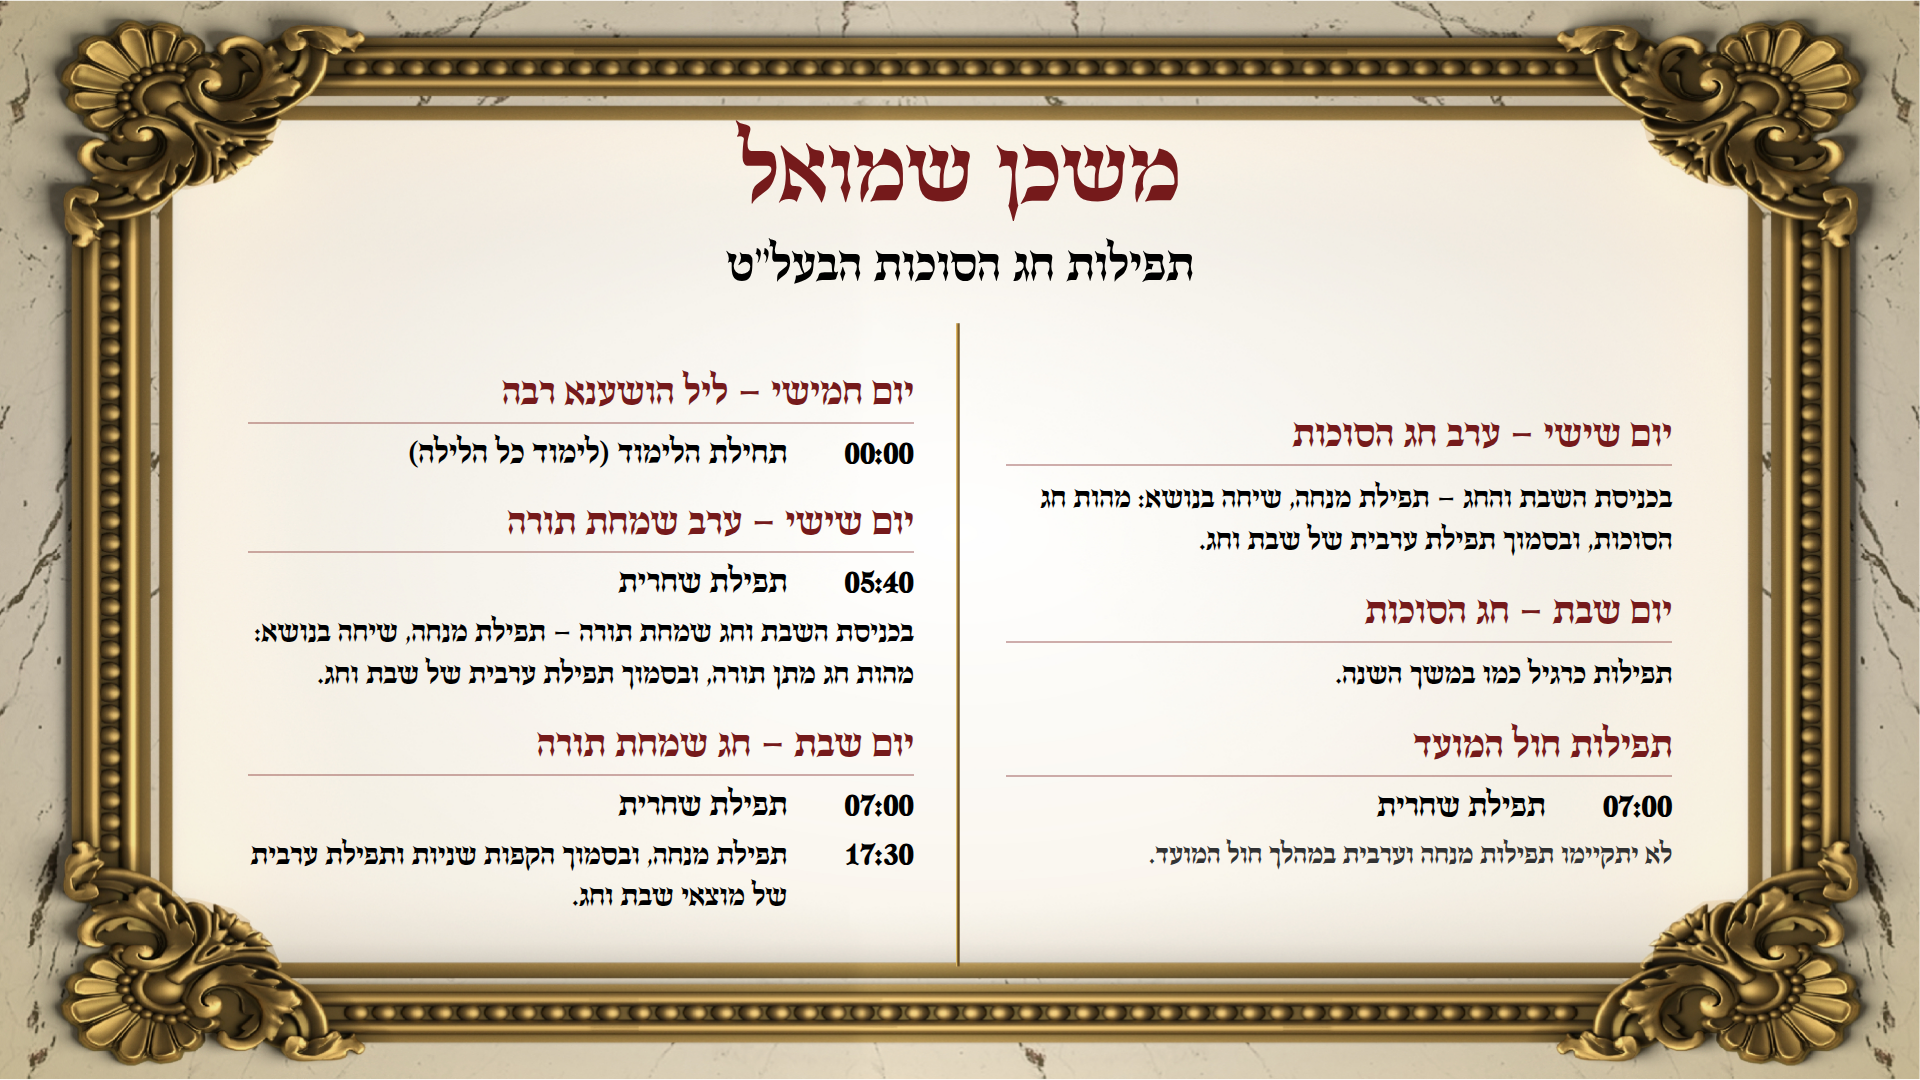
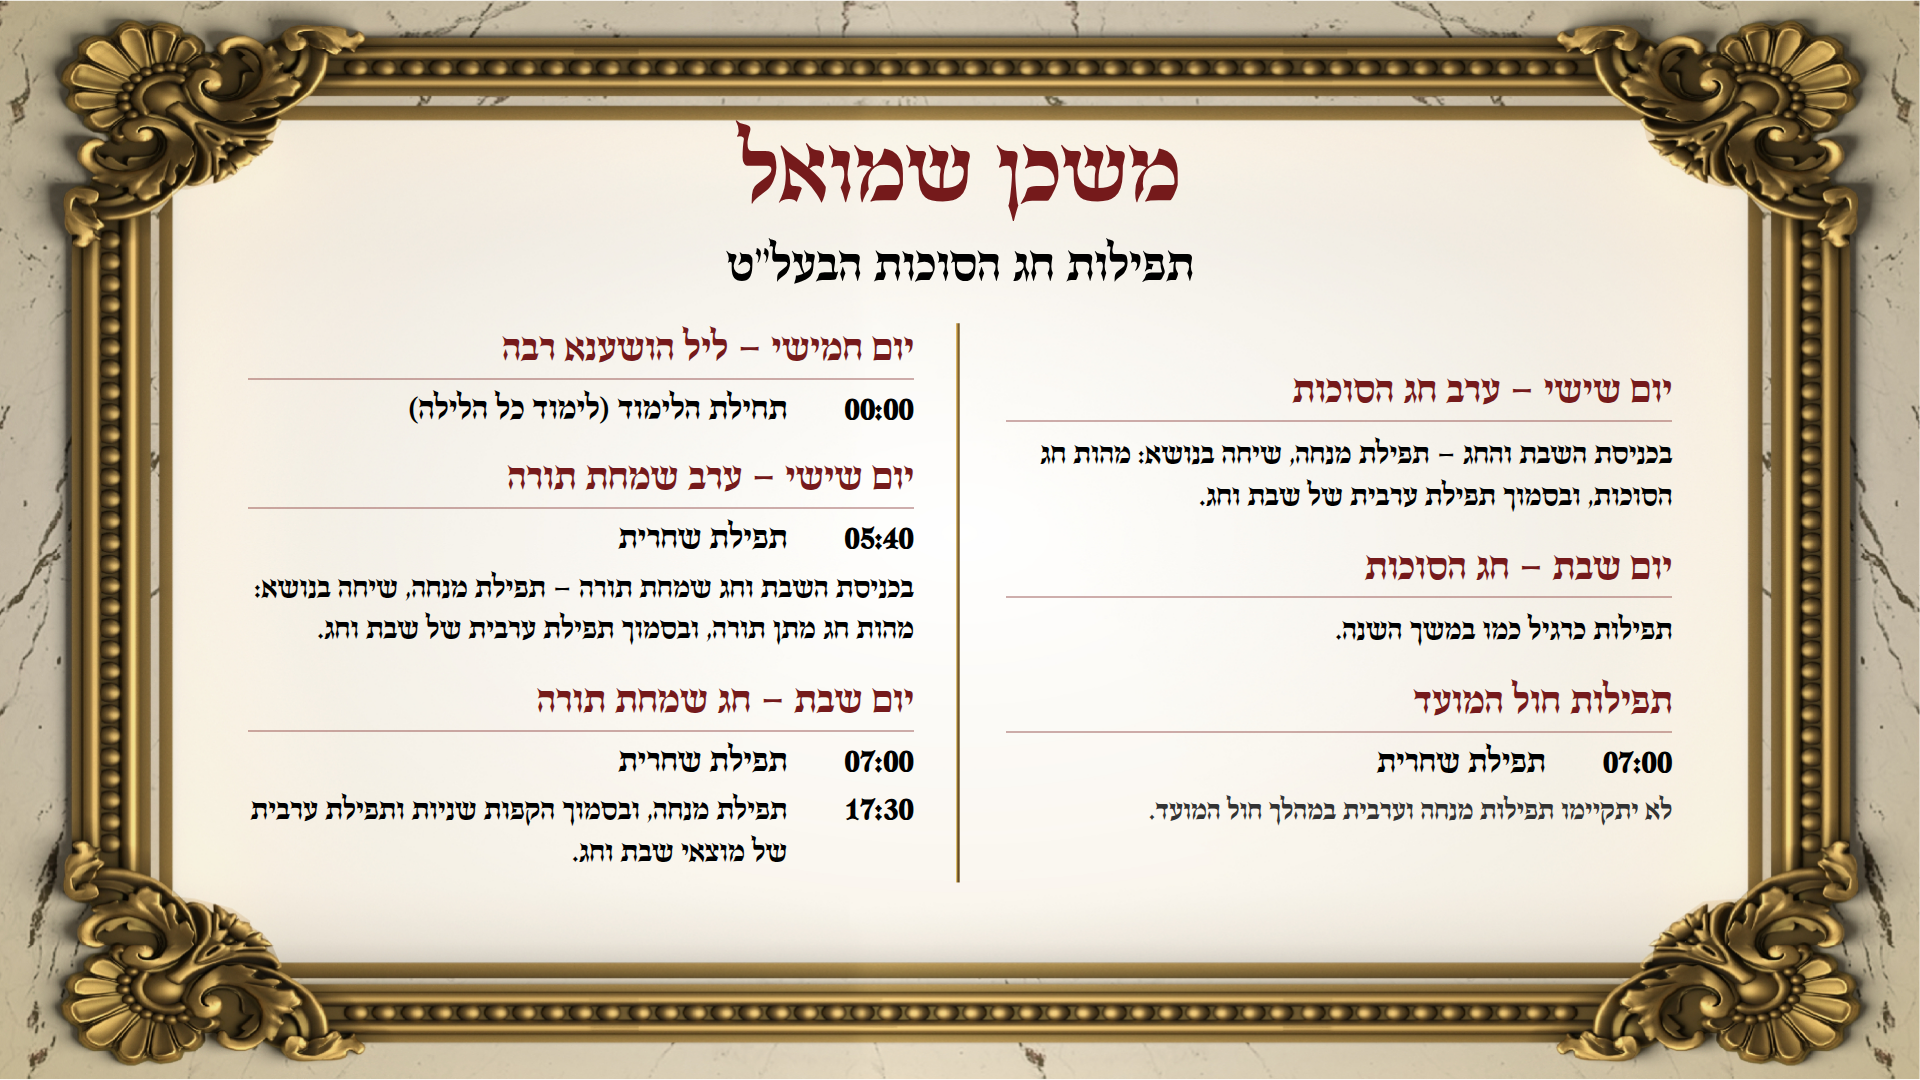
Sukkot poster: separator line with kiosk .bordered proportions (90%), content centered on it
Claude-Session: https://claude.ai/code/session_01GxNQELvDXut78CycooGX3U

Changed region(s): [[0.125, 0.3056, 0.5, 0.8556], [0.5312, 0.3361, 0.875, 0.7944]]

diff --git a/posters/sukkot-5787.html b/posters/sukkot-5787.html
@@ -41,7 +41,7 @@
     position: relative;
     width: 100%;
     height: 100%;
-    padding: 9vh 9vw 10.5vh;
+    padding: 9vh 9vw 11vh;
     display: flex;
     flex-direction: column;
     align-items: center;
@@ -65,13 +65,16 @@
     margin-top: 1.2vh;
   }
 
-  /* ── Two columns separated by the kiosk's gold rule (line.png) ── */
+  /* ── Two columns separated by the kiosk's gold rule (line.png) ──
+     Same proportions as the kiosk's .bordered: 90% of the column height,
+     column ends 11vh + 1rem above the bottom edge. */
   #columns {
     flex: 1 1 auto;
     width: 100%;
     display: flex;
     flex-direction: row;
     margin-top: 2.8vh;
+    margin-bottom: 1rem;
     padding: 0 1.5vw;
   }
 
@@ -81,14 +84,14 @@
     flex-direction: column;
     justify-content: center;
     gap: 2.6vh;
-    padding: 0 2.4vw;
+    padding: 0 2.4vw 6.2vh; /* bottom 10% → center content on the 90% line */
   }
 
   .col + .col {
     background-image: url('/line.png');
     background-repeat: no-repeat;
     background-position: top right;
-    background-size: auto 100%;
+    background-size: auto 90%;
   }
 
   .section { display: flex; flex-direction: column; gap: 0.9vh; }
